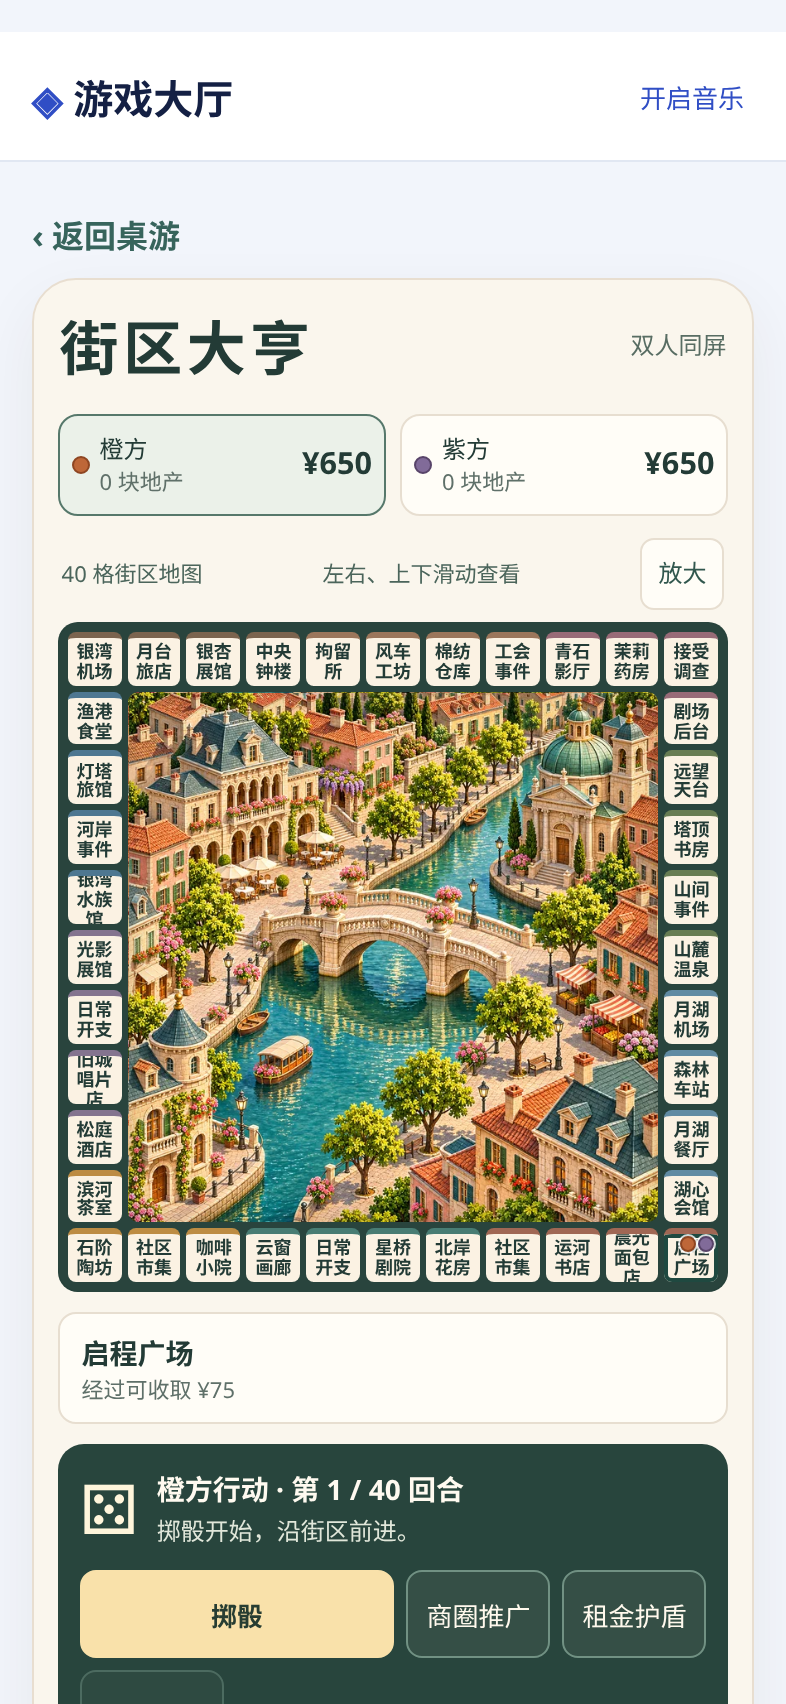
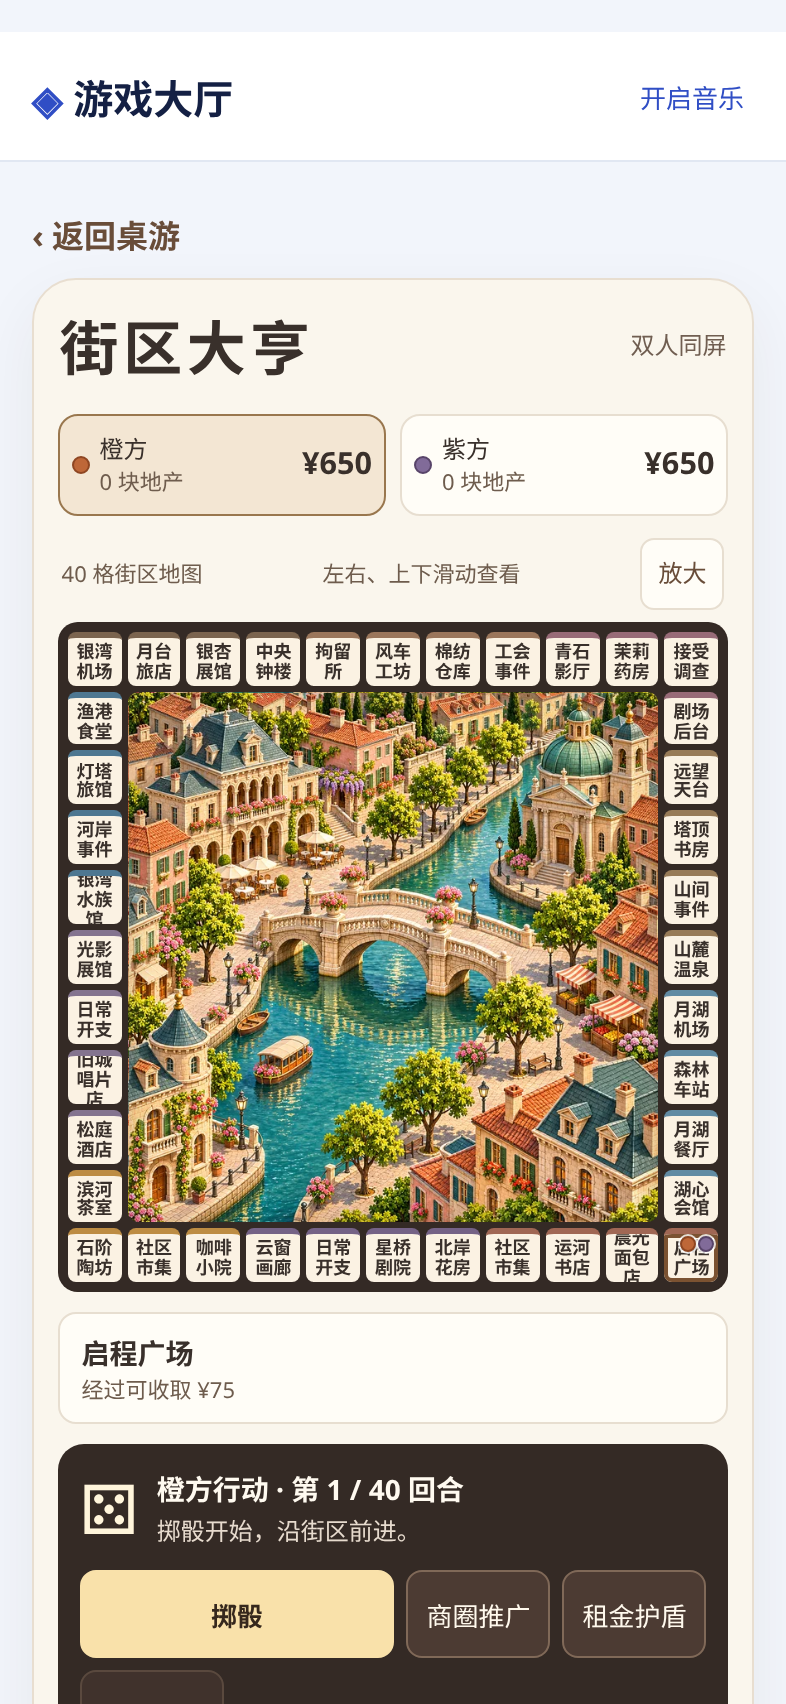
Replace green estate controls with warm charcoal

diff --git a/public/style.css b/public/style.css
@@ -41,26 +41,26 @@ nav{display:flex;gap:24px;color:#536181;font-weight:650}nav a{padding:16px 0;bor
 .checker-hole[data-target="true"]{background:#fff7e5;outline:2px solid #8b4a27}.checker-hole[data-selected="true"]{outline:2px solid #442b17}
 .checker-hole[data-last="true"]{box-shadow:0 0 0 2px #fff}.checker-hole[data-hint]::after{content:attr(data-hint);display:grid;place-items:center;background:#29444a;width:100%;height:100%;border-radius:50%;font-size:clamp(8px,2.5vw,14px)}
 .audio-toggle{min-height:44px;border:0;background:transparent;color:var(--accent);font-size:13px;padding:0 5px}
-#estate-page .back{color:#37645c}
-.estate-shell{max-width:620px;margin:auto;padding:clamp(10px,3vw,18px);color:#233b36;background:#faf6ed;border:1px solid #e8ded0;border-radius:22px;box-shadow:0 12px 32px #382c1410}
-.estate-header{display:flex;justify-content:space-between;align-items:center;gap:10px;margin:0 1px 13px}.estate-header h1{margin:0;font-size:clamp(24px,7.5vw,38px);letter-spacing:.08em}.estate-header span{font-size:12px;color:#586d63;white-space:nowrap}
-.estate-players{display:grid;grid-template-columns:1fr 1fr;gap:7px;margin-bottom:11px}.estate-player{min-width:0;display:grid;grid-template-columns:auto 1fr auto;gap:5px;align-items:center;border:1px solid #e7ded0;border-radius:10px;background:#fffdf7;padding:8px 6px;font-size:12px}.estate-player[data-active="true"]{border-color:#56786b;background:#ebf1e9}
-.estate-player strong{font-variant-numeric:tabular-nums;font-size:clamp(13px,3.9vw,19px);white-space:nowrap}.estate-player small,.estate-deed small{display:block;color:#5f7069;font-size:11px}.estate-player i,.estate-pieces i{height:9px;width:9px;display:inline-block;border-radius:50%;background:#be6738;border:1px solid #8e4622}
+#estate-page .back{color:#694d39}
+.estate-shell{max-width:620px;margin:auto;padding:clamp(10px,3vw,18px);color:#39302b;background:#faf6ed;border:1px solid #e8ded0;border-radius:22px;box-shadow:0 12px 32px #382c1410}
+.estate-header{display:flex;justify-content:space-between;align-items:center;gap:10px;margin:0 1px 13px}.estate-header h1{margin:0;font-size:clamp(24px,7.5vw,38px);letter-spacing:.08em}.estate-header span{font-size:12px;color:#705e51;white-space:nowrap}
+.estate-players{display:grid;grid-template-columns:1fr 1fr;gap:7px;margin-bottom:11px}.estate-player{min-width:0;display:grid;grid-template-columns:auto 1fr auto;gap:5px;align-items:center;border:1px solid #e7ded0;border-radius:10px;background:#fffdf7;padding:8px 6px;font-size:12px}.estate-player[data-active="true"]{border-color:#99774e;background:#f3e6d3}
+.estate-player strong{font-variant-numeric:tabular-nums;font-size:clamp(13px,3.9vw,19px);white-space:nowrap}.estate-player small,.estate-deed small{display:block;color:#6e5c4d;font-size:11px}.estate-player i,.estate-pieces i{height:9px;width:9px;display:inline-block;border-radius:50%;background:#be6738;border:1px solid #8e4622}
 .estate-player[data-estate-player="1"] i,.estate-pieces i[data-side="1"]{background:#816b99;border-color:#584469}
-#estate-viewport{overflow:auto;aspect-ratio:1;overscroll-behavior:contain;touch-action:pan-x pan-y;border-radius:10px;background:#29443d}
-.estate-mapbar{display:flex;justify-content:space-between;gap:5px;margin:0 2px 6px;color:#4b655b;font-size:11px}
-#estate-board{position:relative;min-width:760px;display:grid;grid-template:repeat(11,minmax(0,1fr))/repeat(11,minmax(0,1fr));aspect-ratio:1;gap:3px;background:#29443d;padding:5px;border-radius:12px;box-shadow:0 4px 10px #1b2e2720}
-.estate-map{grid-area:2/2/11/11;background:#a7b5a0 url('/estate-map.webp') center/cover;border-radius:5px;box-shadow:inset 0 0 14px #362e2633}
-.estate-tile{--district:#a06754;position:relative;min-width:0;background:#fbf2e3;border:0;border-top:3px solid var(--district);border-radius:4px;padding:2px 1px;text-align:center;font-size:clamp(8px,2.55vw,14px);line-height:1.1;overflow:hidden;display:flex;flex-direction:column;justify-content:center;align-items:center;gap:2px;color:#233b36}
-.estate-tile[data-district="1"]{--district:#487c73}.estate-tile[data-district="2"]{--district:#bd8c43}.estate-tile[data-district="3"]{--district:#84748f}
+#estate-viewport{overflow:auto;aspect-ratio:1;overscroll-behavior:contain;touch-action:pan-x pan-y;border-radius:10px;background:#342a25}
+.estate-mapbar{display:flex;justify-content:space-between;gap:5px;margin:0 2px 6px;color:#6e5c4d;font-size:11px}
+#estate-board{position:relative;min-width:760px;display:grid;grid-template:repeat(11,minmax(0,1fr))/repeat(11,minmax(0,1fr));aspect-ratio:1;gap:3px;background:#342a25;padding:5px;border-radius:12px;box-shadow:0 4px 10px #31262020}
+.estate-map{grid-area:2/2/11/11;background:#c1a78a url('/estate-map.webp') center/cover;border-radius:5px;box-shadow:inset 0 0 14px #362e2633}
+.estate-tile{--district:#a06754;position:relative;min-width:0;background:#fbf2e3;border:0;border-top:3px solid var(--district);border-radius:4px;padding:2px 1px;text-align:center;font-size:clamp(8px,2.55vw,14px);line-height:1.1;overflow:hidden;display:flex;flex-direction:column;justify-content:center;align-items:center;gap:2px;color:#39302b}
+.estate-tile[data-district="1"]{--district:#746286}.estate-tile[data-district="2"]{--district:#bd8c43}.estate-tile[data-district="3"]{--district:#84748f}
 .estate-tile[data-district="4"]{--district:#4e7791}.estate-tile[data-district="5"]{--district:#7b644e}
 .estate-tile[data-owner="0"]{background:#ffdfc1}.estate-tile[data-owner="1"]{background:#eee3f6}
-.estate-tile[aria-pressed="true"]{box-shadow:inset 0 0 0 2px #1f4940}.estate-tile strong{font-weight:750;overflow-wrap:anywhere}.estate-tile small{font-size:clamp(8px,2.5vw,12px);color:#425650}.estate-tile-badge{color:var(--district);font-size:10px}
+.estate-tile[aria-pressed="true"]{box-shadow:inset 0 0 0 2px #7b5231}.estate-tile strong{font-weight:750;overflow-wrap:anywhere}.estate-tile small{font-size:clamp(8px,2.5vw,12px);color:#624e42}.estate-tile-badge{color:var(--district);font-size:10px}
 .estate-pieces{position:absolute;display:flex;gap:1px;right:2px;top:1px}.estate-pieces i{height:8px;width:8px;box-shadow:0 0 0 1px #fffc}
 .estate-deed{display:flex;align-items:center;justify-content:space-between;gap:12px;margin-top:10px;padding:8px 11px;background:#fffdf7;border:1px solid #e7ded0;border-radius:9px}.estate-deed strong,.estate-deed b{font-size:14px}
-.estate-operation{margin-top:10px;padding:11px;background:#28453d;color:#fffaf0;border-radius:13px}.estate-turn{display:flex;gap:9px;align-items:center}.estate-turn strong{font-size:14px}.estate-turn p{margin:3px 0 0;color:#e1e7da;font-size:12px;line-height:1.4}.estate-turn>span{color:#fff5db;font-size:34px;line-height:1}
-.estate-controls{display:flex;flex-wrap:wrap;gap:6px;margin-top:10px}.estate-controls button,.estate-footer button{min-height:44px;padding:0 9px;border:1px solid #719183;border-radius:8px;background:#354f46;color:#fff9ed;font-size:13px}.estate-controls .estate-primary{background:#f9e1aa;color:#273d32;border-color:#f9e1aa;font-weight:800;flex:1 1 100px}
-.estate-controls button:disabled{opacity:.5}.estate-footer{display:flex;justify-content:space-between;align-items:flex-start;gap:8px;margin-top:8px;font-size:12px;color:#4b655b}.estate-footer summary{min-height:44px;align-content:center;cursor:pointer}.estate-footer p{line-height:1.6}.estate-footer button{flex-shrink:0;background:transparent;color:#41655a;border-color:#d8dfd4}
+.estate-operation{margin-top:10px;padding:11px;background:#342a25;color:#fffaf0;border-radius:13px}.estate-turn{display:flex;gap:9px;align-items:center}.estate-turn strong{font-size:14px}.estate-turn p{margin:3px 0 0;color:#e7dbce;font-size:12px;line-height:1.4}.estate-turn>span{color:#fff5db;font-size:34px;line-height:1}
+.estate-controls{display:flex;flex-wrap:wrap;gap:6px;margin-top:10px}.estate-controls button,.estate-footer button{min-height:44px;padding:0 9px;border:1px solid #806958;border-radius:8px;background:#4c3b33;color:#fff9ed;font-size:13px}.estate-controls .estate-primary{background:#f9e1aa;color:#36281d;border-color:#f9e1aa;font-weight:800;flex:1 1 100px}
+.estate-controls button:disabled{opacity:.5}.estate-footer{display:flex;justify-content:space-between;align-items:flex-start;gap:8px;margin-top:8px;font-size:12px;color:#6e5c4d}.estate-footer summary{min-height:44px;align-content:center;cursor:pointer}.estate-footer p{line-height:1.6}.estate-footer button{flex-shrink:0;background:transparent;color:#694d39;border-color:#ded1c1}
 @media(max-width:375px){.estate-player{grid-template-columns:auto 1fr;gap:4px}.estate-player strong{grid-column:2}.estate-tile-badge{display:none}}
 
 .estate-model{position:absolute;top:12px;left:12px;width:13px;height:13px;transform-style:preserve-3d;transform:rotateX(51deg) rotateZ(-36deg);pointer-events:none}
@@ -70,6 +70,6 @@ nav{display:flex;gap:24px;color:#536181;font-weight:650}nav a{padding:16px 0;bor
 .estate-model i b:last-child{height:13px;width:6px;right:0;top:-1px;transform-origin:right;transform:translateX(6px) rotateY(90deg);border:1px solid #65432c;background:#b27d4a}
 .estate-tile:not([data-floors="0"]) .estate-tile-badge{opacity:0}
 
-.estate-mapbar{align-items:center}.estate-mapbar button{min-height:36px;padding:0 8px;border-radius:7px;background:#fffdf7;border:1px solid #e7ded0;color:#31574e;font-size:12px}
-.estate-tile[data-district="6"]{--district:#9b765b}.estate-tile[data-district="7"]{--district:#986b77}.estate-tile[data-district="8"]{--district:#687d53}.estate-tile[data-district="9"]{--district:#618ba3}
+.estate-mapbar{align-items:center}.estate-mapbar button{min-height:36px;padding:0 8px;border-radius:7px;background:#fffdf7;border:1px solid #e7ded0;color:#694d39;font-size:12px}
+.estate-tile[data-district="6"]{--district:#9b765b}.estate-tile[data-district="7"]{--district:#986b77}.estate-tile[data-district="8"]{--district:#987b57}.estate-tile[data-district="9"]{--district:#618ba3}
 #estate-viewport.overview #estate-board{min-width:0}.overview .estate-tile small,.overview .estate-tile-badge,.overview .estate-model{display:none}.overview .estate-tile{font-size:9px}
